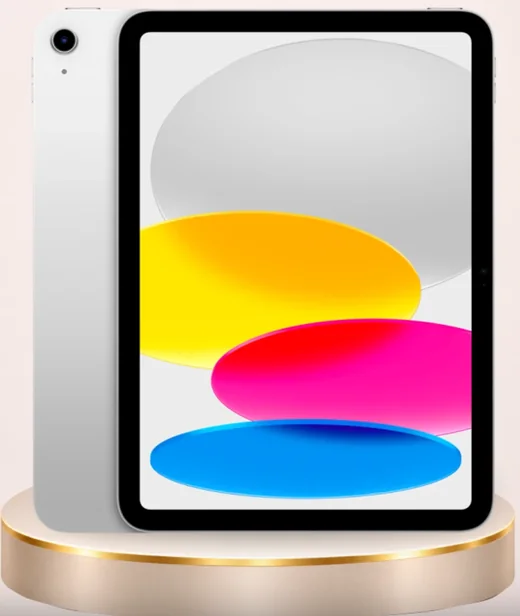
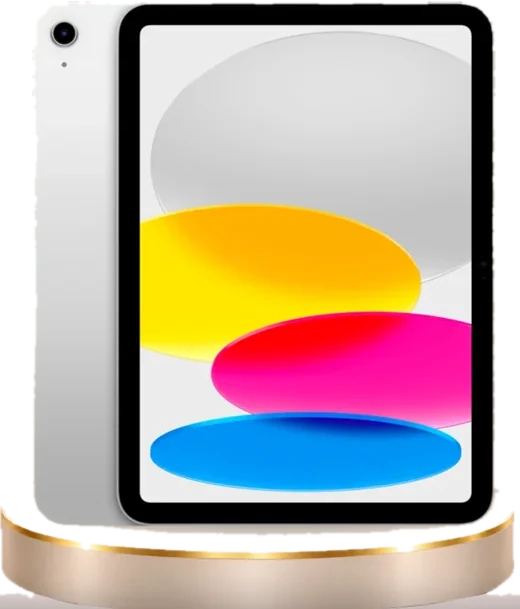
fix(miniapp): sovrin rasmlari ramkasiz, qoida videosi ixcham
- "Sovg'alar": burchakdagi rasmlarning oq plitkasi, chizig'i va soyasi olib
  tashlandi — oq fon karta bilan qo'shilib ketadi; planshet rasmining bej
  foni qirqildi (shaffof), sayohat rasmi chetlari yumshoq so'nadi
- qoida videosi: balandligi 460 px gacha, ramka eni videoning o'zidan 50 px
  keng, o'rtada (vertikal videoda yon tomonlarda katta qora joy qolmaydi)

diff --git a/apps/miniapp/src/screens/PrizesScreen.tsx b/apps/miniapp/src/screens/PrizesScreen.tsx
@@ -424,7 +424,7 @@ function TierRow({
         <CornerPhoto
           kind={tier.kind}
           alt={tier.title}
-          className={isCar ? "right-3 bottom-3 h-[84px] w-[132px]" : "right-3 bottom-3 size-[92px]"}
+          className={isCar ? "right-2 bottom-3 h-[96px] w-[150px]" : "right-2 bottom-2 size-[104px]"}
         />
       ) : (
         <Icon
@@ -471,7 +471,7 @@ function TierRow({
       </div>
 
       {/* Matn rasm ustiga chiqmasin — o'ngda rasm eni qadar joy. */}
-      <div className={clsx(hasPhoto && (isCar ? "pr-[144px]" : "pr-[104px]"))}>
+      <div className={clsx(hasPhoto && (isCar ? "pr-[150px]" : "pr-[104px]"))}>
         <h3 className={clsx("mt-3 leading-tight font-bold tracking-tight", isCar ? "text-[24px]" : "text-[20px]")}>
           {tier.title}
         </h3>
@@ -571,25 +571,23 @@ function Notes({ notes, style }: { notes: string[]; style: CSSProperties }) {
 }
 
 /**
- * Kartaning burchagidagi sovg'a rasmi — oq, yumaloq plitkada. Shaffof rasm (avtomobil, telefon)
- * plitka ichida to'liq ko'rinadi; o'z foni bor rasm (planshet, sayohat, voucher) plitkani to'ldiradi.
+ * Kartaning burchagidagi sovg'a rasmi — ramkasiz (oq plitka, chiziq va soya yo'q). Rasmning oq foni
+ * karta bilan qo'shilib ketadi (`multiply`); o'z foni bor rasm (planshet, sayohat) chetlari esa
+ * yumshoq so'nadi — to'rtburchak ko'rinmaydi.
  */
 function CornerPhoto({ kind, alt, className }: { kind: PrizePhotoKey; alt: string; className: string }) {
   const src = prizePhoto(kind);
   if (!src) return null;
   return (
-    <div
+    <img
+      src={src}
+      alt={alt}
+      draggable={false}
       className={clsx(
-        "pointer-events-none absolute overflow-hidden rounded-[18px] bg-white shadow-[0_10px_22px_-12px_rgba(0,0,0,0.4)] ring-1 ring-black/[0.06]",
+        "pointer-events-none absolute object-contain mix-blend-multiply",
+        PRIZE_PHOTO_HAS_BACKGROUND[kind] && "[mask-image:radial-gradient(closest-side,#000_64%,transparent)]",
         className,
       )}
-    >
-      <img
-        src={src}
-        alt={alt}
-        draggable={false}
-        className={clsx("size-full", PRIZE_PHOTO_HAS_BACKGROUND[kind] ? "object-cover" : "object-contain p-1.5")}
-      />
-    </div>
+    />
   );
 }

diff --git a/apps/miniapp/src/screens/onboarding.tsx b/apps/miniapp/src/screens/onboarding.tsx
@@ -222,13 +222,25 @@ function Bauble({ label }: { label: string }) {
   );
 }
 
+/** Qoida videosining eng katta balandligi, px (kompyuterda ham juda katta bo'lib ketmasin). */
+const RULES_VIDEO_MAX_HEIGHT = 460;
+/** Ramka videoning o'zidan shuncha keng (har ikki chetida 25 px). */
+const RULES_VIDEO_EXTRA_WIDTH = 50;
+
 /**
  * Qoidalarni tushuntiruvchi video (admin panelda yuklanadi) — qoidalar ustida, eng tepada.
- * Brauzer o'zi o'ynatmaydi: foydalanuvchi bosadi (ovozli avtoijro baribir bloklanadi).
+ * Balandligi 460 px gacha; ramka eni videoning o'z enidan 50 px katta (vertikal videoda yon
+ * tomonlarda katta qora joy qolmaydi), o'rtada. Brauzer o'zi o'ynatmaydi: foydalanuvchi bosadi.
  */
 function RulesVideo({ id }: { id: string }) {
+  // Video eni / bo'yi — metadata kelgach ma'lum bo'ladi.
+  const [ratio, setRatio] = useState<number | null>(null);
+  const maxWidth = ratio === null ? undefined : Math.round(RULES_VIDEO_MAX_HEIGHT * ratio) + RULES_VIDEO_EXTRA_WIDTH;
   return (
-    <figure className="mb-4 animate-rise overflow-hidden rounded-card bg-ink shadow-[0_18px_40px_-24px_rgba(30,31,34,0.8)]">
+    <figure
+      className="mx-auto mb-4 animate-rise overflow-hidden rounded-card bg-ink shadow-[0_18px_40px_-24px_rgba(30,31,34,0.8)]"
+      style={{ maxWidth }}
+    >
       <video
         key={id}
         // `#t=0.1` — o'ynatilmaguncha qora to'rtburchak emas, birinchi kadr ko'rinsin (iOS ham).
@@ -236,7 +248,12 @@ function RulesVideo({ id }: { id: string }) {
         controls
         playsInline
         preload="metadata"
-        className="block max-h-[70vh] w-full bg-black object-contain"
+        onLoadedMetadata={(event) => {
+          const { videoWidth, videoHeight } = event.currentTarget;
+          if (videoWidth > 0 && videoHeight > 0) setRatio(videoWidth / videoHeight);
+        }}
+        className="block w-full bg-black object-contain"
+        style={{ maxHeight: RULES_VIDEO_MAX_HEIGHT }}
         aria-label={t.rulesVideoLabel}
       />
       <figcaption className="px-4 py-2.5 text-[13px] font-semibold text-white/80">{t.rulesVideoLabel}</figcaption>

diff --git a/apps/miniapp/src/lib/prize-photos.ts b/apps/miniapp/src/lib/prize-photos.ts
@@ -18,13 +18,14 @@ export function prizePhoto(key: PrizePhotoKey): string | null {
 }
 
 /**
- * Rasmning o'z foni bormi: shaffof (car, phone) — `object-contain` bilan oq plitkada; fonli
- * (tablet, travel, voucher — och pushti/bej) — plitkani to'liq to'ldiradi (`object-cover`).
+ * Rasmning o'z foni bormi: shaffof yoki oq fonli (car, phone, tablet — foni qirqilgan) —
+ * `object-contain`; fonli (travel, voucher — och pushti/bej) — plitkani to'ldiradi (`object-cover`),
+ * "Sovg'alar" ekranida esa chetlari yumshoq so'nadi.
  */
 export const PRIZE_PHOTO_HAS_BACKGROUND: Record<PrizePhotoKey, boolean> = {
   car: false,
   phone: false,
-  tablet: true,
+  tablet: false,
   travel: true,
   voucher: true,
 };
